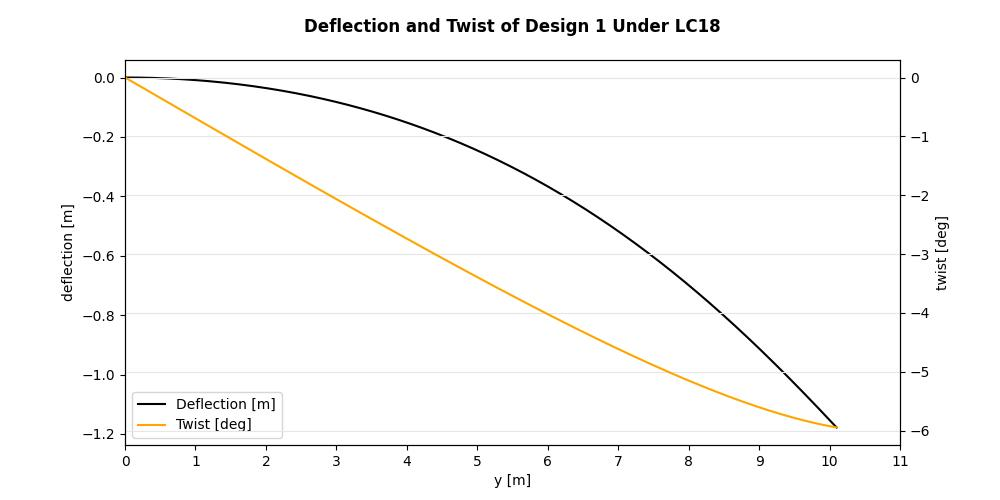
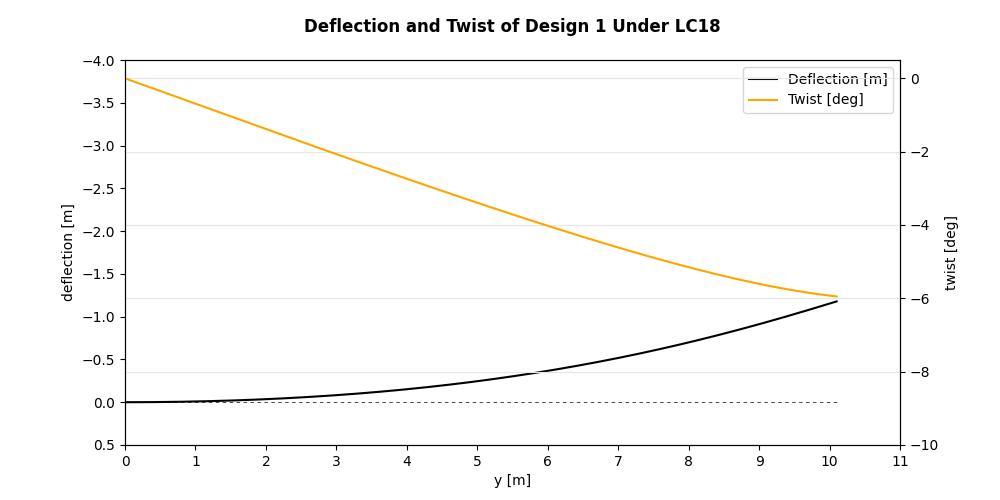
L

diff --git a/codeinertia.py b/codeinertia.py
@@ -395,7 +395,7 @@ def movPlot(v,theta,lc,design):
 
         deflection[i] = np.sum(v[0:i])
 
-    deflection=deflection*-1
+    # deflection=deflection*-1
 
     twist = np.linspace(0.0, 10.1, 400)
     for i in range(y.size):
@@ -419,7 +419,7 @@ def movPlot(v,theta,lc,design):
     labs = [l.get_label() for l in lns]
     ax1.legend(lns, labs, loc="upper right")
 
-    ax1.set_ylim([-0.5,4])
+    ax1.set_ylim([0.5,-4])
     ax2.set_ylim([-10,0.5])
     ax1.set_xlabel('y [m]')
     ax1.set_ylabel('deflection [m]')
